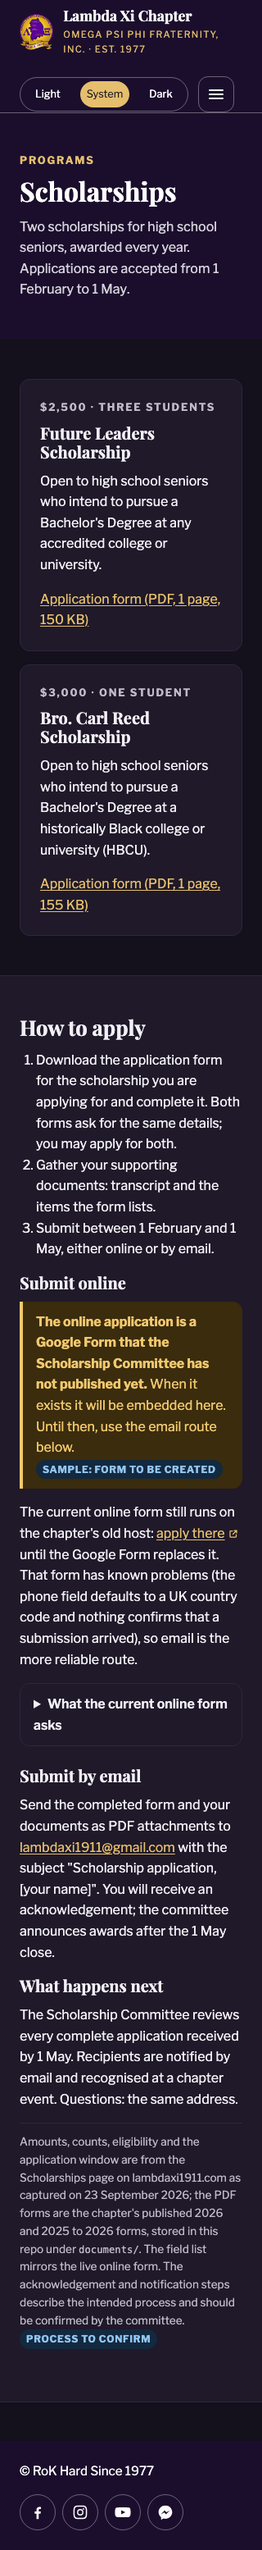
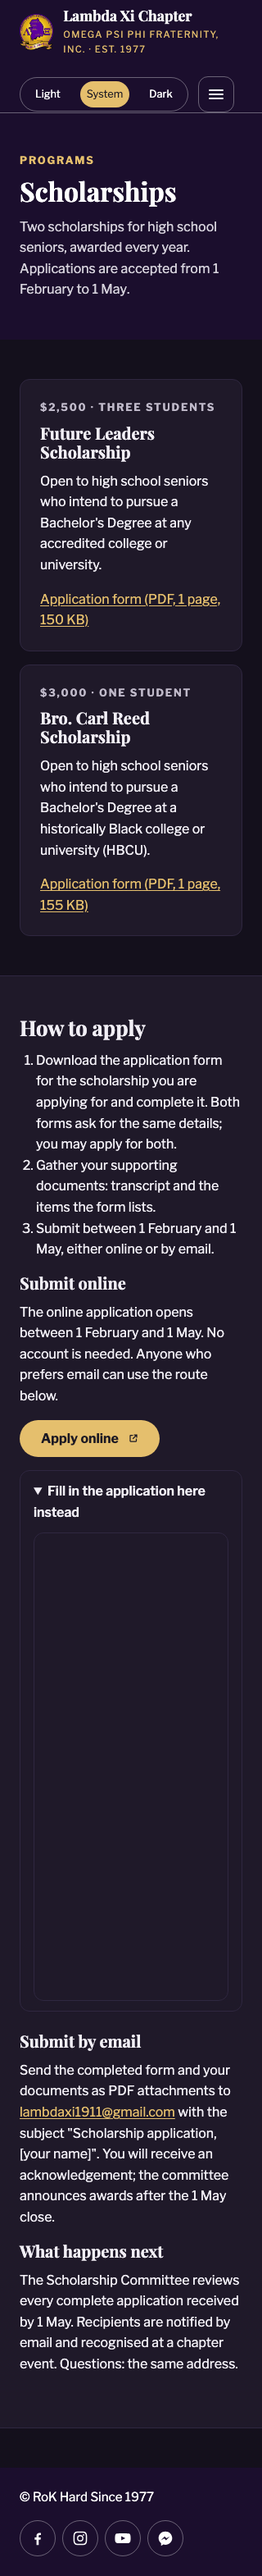
content: scholarship application moves to Tally, embedded and linked
Applicants no longer need a Google account to upload their documents.
The security policy allows tally.so frames; the Google Form stays
unlinked as a fallback.

diff --git a/docs/scholarships/index.html b/docs/scholarships/index.html
@@ -3,7 +3,7 @@
 <head>
 <meta charset="utf-8">
 <meta name="viewport" content="width=device-width, initial-scale=1">
-<meta http-equiv="Content-Security-Policy" content="default-src 'self'; script-src 'self' 'sha256-1C7GT+78bzy3hm2KN++HDdZPqmAjz3lqYHHkDRIS7Pw='; style-src 'self' https://fonts.googleapis.com; font-src https://fonts.gstatic.com; img-src 'self' data: https://custom-images.strikinglycdn.com; frame-src https://docs.google.com; connect-src 'self'; object-src 'none'; base-uri 'self'; form-action 'none'">
+<meta http-equiv="Content-Security-Policy" content="default-src 'self'; script-src 'self' 'sha256-1C7GT+78bzy3hm2KN++HDdZPqmAjz3lqYHHkDRIS7Pw='; style-src 'self' https://fonts.googleapis.com; font-src https://fonts.gstatic.com; img-src 'self' data: https://custom-images.strikinglycdn.com; frame-src https://docs.google.com https://tally.so; connect-src 'self'; object-src 'none'; base-uri 'self'; form-action 'none'">
 <script>
 /* Pre-paint theme: apply the stored choice before the first frame to avoid a flash. */
 (function () {
@@ -131,19 +131,13 @@
         <li>Submit between 1 February and 1 May, either online or by email.</li>
       </ol>
       <h3>Submit online</h3>
-      <p><a class="btn btn--primary" href="https://docs.google.com/forms/d/e/1FAIpQLSdDJCO-0odCvrCPdgxz5t_IAwGVnog2LI-kWmTqhfbIh9hRZw/viewform">Apply online (Google Form)</a></p>
-      <p>The online application opens between 1 February and 1 May. It needs a Google account, because it ends with a file upload; anyone without one can use the email route below instead.</p>
-      <details>
-        <summary>What the online form asks</summary>
-        <ul>
-          <li>Which scholarship (Future Leaders, Bro. Carl Reed, or both)</li>
-          <li>Student's first and last name, email, and optional phone (Korea +82 or US +1)</li>
-          <li>High school (Daegu, Osan, Humphreys, or other)</li>
-          <li>College or university you plan to attend</li>
-          <li>A short description of your community involvement and goals</li>
-          <li>Parent or guardian name, phone (Korea +82 or US +1) and email</li>
-          <li>Upload of the completed application form and transcript (PDF, up to 10 MB)</li>
-        </ul>
+      <p>The online application opens between 1 February and 1 May. No account is needed. Anyone who prefers email can use the route below.</p>
+      <p><a class="btn btn--primary" href="https://tally.so/r/VLg1eJ">Apply online</a></p>
+      <details open>
+        <summary>Fill in the application here instead</summary>
+        <div class="embed stack-top-sm">
+          <iframe referrerpolicy="strict-origin" src="https://tally.so/embed/VLg1eJ?alignLeft=1&hideTitle=1&transparentBackground=1" title="Lambda Xi Chapter scholarship application form" loading="lazy"></iframe>
+        </div>
       </details>
       <h3 class="stack-top">Submit by email</h3>
       <p>Send the completed form and your documents as PDF attachments to <a href="mailto:lambdaxi1911@gmail.com">lambdaxi1911@gmail.com</a> with the subject "Scholarship application, [your name]". You will receive an acknowledgement; the committee announces awards after the 1 May close.</p>

diff --git a/merged/scholarships.html b/merged/scholarships.html
@@ -130,19 +130,13 @@
         <li>Submit between 1 February and 1 May, either online or by email.</li>
       </ol>
       <h3>Submit online</h3>
-      <p><a class="btn btn--primary" href="https://docs.google.com/forms/d/e/1FAIpQLSdDJCO-0odCvrCPdgxz5t_IAwGVnog2LI-kWmTqhfbIh9hRZw/viewform">Apply online (Google Form)</a></p>
-      <p>The online application opens between 1 February and 1 May. It needs a Google account, because it ends with a file upload; anyone without one can use the email route below instead.</p>
-      <details>
-        <summary>What the online form asks</summary>
-        <ul>
-          <li>Which scholarship (Future Leaders, Bro. Carl Reed, or both)</li>
-          <li>Student's first and last name, email, and optional phone (Korea +82 or US +1)</li>
-          <li>High school (Daegu, Osan, Humphreys, or other)</li>
-          <li>College or university you plan to attend</li>
-          <li>A short description of your community involvement and goals</li>
-          <li>Parent or guardian name, phone (Korea +82 or US +1) and email</li>
-          <li>Upload of the completed application form and transcript (PDF, up to 10 MB)</li>
-        </ul>
+      <p>The online application opens between 1 February and 1 May. No account is needed. Anyone who prefers email can use the route below.</p>
+      <p><a class="btn btn--primary" href="https://tally.so/r/VLg1eJ">Apply online</a></p>
+      <details open>
+        <summary>Fill in the application here instead</summary>
+        <div class="embed stack-top-sm">
+          <iframe referrerpolicy="strict-origin" src="https://tally.so/embed/VLg1eJ?alignLeft=1&hideTitle=1&transparentBackground=1" title="Lambda Xi Chapter scholarship application form" loading="lazy"></iframe>
+        </div>
       </details>
       <h3 class="stack-top">Submit by email</h3>
       <p>Send the completed form and your documents as PDF attachments to <a href="mailto:lambdaxi1911@gmail.com">lambdaxi1911@gmail.com</a> with the subject "Scholarship application, [your name]". You will receive an acknowledgement; the committee announces awards after the 1 May close.</p>

diff --git a/scholarships/mock/scholarships-mock.html b/scholarships/mock/scholarships-mock.html
@@ -130,19 +130,13 @@
         <li>Submit between 1 February and 1 May, either online or by email.</li>
       </ol>
       <h3>Submit online</h3>
-      <p><a class="btn btn--primary" href="https://docs.google.com/forms/d/e/1FAIpQLSdDJCO-0odCvrCPdgxz5t_IAwGVnog2LI-kWmTqhfbIh9hRZw/viewform">Apply online (Google Form)</a></p>
-      <p>The online application opens between 1 February and 1 May. It needs a Google account, because it ends with a file upload; anyone without one can use the email route below instead.</p>
-      <details>
-        <summary>What the online form asks</summary>
-        <ul>
-          <li>Which scholarship (Future Leaders, Bro. Carl Reed, or both)</li>
-          <li>Student's first and last name, email, and optional phone (Korea +82 or US +1)</li>
-          <li>High school (Daegu, Osan, Humphreys, or other)</li>
-          <li>College or university you plan to attend</li>
-          <li>A short description of your community involvement and goals</li>
-          <li>Parent or guardian name, phone (Korea +82 or US +1) and email</li>
-          <li>Upload of the completed application form and transcript (PDF, up to 10 MB)</li>
-        </ul>
+      <p>The online application opens between 1 February and 1 May. No account is needed. Anyone who prefers email can use the route below.</p>
+      <p><a class="btn btn--primary" href="https://tally.so/r/VLg1eJ">Apply online</a></p>
+      <details open>
+        <summary>Fill in the application here instead</summary>
+        <div class="embed stack-top-sm">
+          <iframe referrerpolicy="strict-origin" src="https://tally.so/embed/VLg1eJ?alignLeft=1&hideTitle=1&transparentBackground=1" title="Lambda Xi Chapter scholarship application form" loading="lazy"></iframe>
+        </div>
       </details>
       <h3 class="stack-top">Submit by email</h3>
       <p>Send the completed form and your documents as PDF attachments to <a href="mailto:lambdaxi1911@gmail.com">lambdaxi1911@gmail.com</a> with the subject "Scholarship application, [your name]". You will receive an acknowledgement; the committee announces awards after the 1 May close.</p>

diff --git a/tooling/mock-src/pages/scholarships.html b/tooling/mock-src/pages/scholarships.html
@@ -45,19 +45,13 @@
         <li>Submit between 1 February and 1 May, either online or by email.</li>
       </ol>
       <h3>Submit online</h3>
-      <p><a class="btn btn--primary" href="https://docs.google.com/forms/d/e/1FAIpQLSdDJCO-0odCvrCPdgxz5t_IAwGVnog2LI-kWmTqhfbIh9hRZw/viewform">Apply online (Google Form)</a></p>
-      <p>The online application opens between 1 February and 1 May. It needs a Google account, because it ends with a file upload; anyone without one can use the email route below instead.</p>
-      <details>
-        <summary>What the online form asks</summary>
-        <ul>
-          <li>Which scholarship (Future Leaders, Bro. Carl Reed, or both)</li>
-          <li>Student's first and last name, email, and optional phone (Korea +82 or US +1)</li>
-          <li>High school (Daegu, Osan, Humphreys, or other)</li>
-          <li>College or university you plan to attend</li>
-          <li>A short description of your community involvement and goals</li>
-          <li>Parent or guardian name, phone (Korea +82 or US +1) and email</li>
-          <li>Upload of the completed application form and transcript (PDF, up to 10 MB)</li>
-        </ul>
+      <p>The online application opens between 1 February and 1 May. No account is needed. Anyone who prefers email can use the route below.</p>
+      <p><a class="btn btn--primary" href="https://tally.so/r/VLg1eJ">Apply online</a></p>
+      <details open>
+        <summary>Fill in the application here instead</summary>
+        <div class="embed stack-top-sm">
+          <iframe referrerpolicy="strict-origin" src="https://tally.so/embed/VLg1eJ?alignLeft=1&hideTitle=1&transparentBackground=1" title="Lambda Xi Chapter scholarship application form" loading="lazy"></iframe>
+        </div>
       </details>
       <h3 class="stack-top">Submit by email</h3>
       <p>Send the completed form and your documents as PDF attachments to <a href="mailto:lambdaxi1911@gmail.com">lambdaxi1911@gmail.com</a> with the subject "Scholarship application, [your name]". You will receive an acknowledgement; the committee announces awards after the 1 May close.</p>

diff --git a/merged/index.html b/merged/index.html
@@ -18,5 +18,5 @@
 <tr><td><a href="news.html">News</a></td><td>approved 24 Sep 2026</td><td><code>news/mock/news-mock.html</code></td></tr>
 <tr><td><a href="new-years-eve-party.html">New Year's Eve Party</a></td><td>built, awaiting review</td><td><code>new-years-eve-party/mock/new-years-eve-party-mock.html</code></td></tr>
 <tr><td><a href="mandated-programs.html">Mandated Programs</a></td><td>approved 24 Sep 2026</td><td><code>mandated-programs/mock/mandated-programs-mock.html</code></td></tr>
-<tr><td><a href="scholarships.html">Scholarships</a></td><td>approved 24 Sep 2026; Google Form linked</td><td><code>scholarships/mock/scholarships-mock.html</code></td></tr>
+<tr><td><a href="scholarships.html">Scholarships</a></td><td>approved 24 Sep 2026; Tally application form linked</td><td><code>scholarships/mock/scholarships-mock.html</code></td></tr>
 <tr><td><a href="youth-leadership-conference.html">Youth Leadership Conference</a></td><td>approved 23 Sep 2026</td><td><code>youth-leadership-conference/mock/youth-leadership-conference-mock.html</code></td></tr></tbody></table></main></body></html>

diff --git a/docs/contact/index.html b/docs/contact/index.html
@@ -3,7 +3,7 @@
 <head>
 <meta charset="utf-8">
 <meta name="viewport" content="width=device-width, initial-scale=1">
-<meta http-equiv="Content-Security-Policy" content="default-src 'self'; script-src 'self' 'sha256-1C7GT+78bzy3hm2KN++HDdZPqmAjz3lqYHHkDRIS7Pw='; style-src 'self' https://fonts.googleapis.com; font-src https://fonts.gstatic.com; img-src 'self' data: https://custom-images.strikinglycdn.com; frame-src https://docs.google.com; connect-src 'self'; object-src 'none'; base-uri 'self'; form-action 'none'">
+<meta http-equiv="Content-Security-Policy" content="default-src 'self'; script-src 'self' 'sha256-1C7GT+78bzy3hm2KN++HDdZPqmAjz3lqYHHkDRIS7Pw='; style-src 'self' https://fonts.googleapis.com; font-src https://fonts.gstatic.com; img-src 'self' data: https://custom-images.strikinglycdn.com; frame-src https://docs.google.com https://tally.so; connect-src 'self'; object-src 'none'; base-uri 'self'; form-action 'none'">
 <script>
 /* Pre-paint theme: apply the stored choice before the first frame to avoid a flash. */
 (function () {

diff --git a/docs/events/50th-anniversary/index.html b/docs/events/50th-anniversary/index.html
@@ -3,7 +3,7 @@
 <head>
 <meta charset="utf-8">
 <meta name="viewport" content="width=device-width, initial-scale=1">
-<meta http-equiv="Content-Security-Policy" content="default-src 'self'; script-src 'self' 'sha256-1C7GT+78bzy3hm2KN++HDdZPqmAjz3lqYHHkDRIS7Pw='; style-src 'self' https://fonts.googleapis.com; font-src https://fonts.gstatic.com; img-src 'self' data: https://custom-images.strikinglycdn.com; frame-src https://docs.google.com; connect-src 'self'; object-src 'none'; base-uri 'self'; form-action 'none'">
+<meta http-equiv="Content-Security-Policy" content="default-src 'self'; script-src 'self' 'sha256-1C7GT+78bzy3hm2KN++HDdZPqmAjz3lqYHHkDRIS7Pw='; style-src 'self' https://fonts.googleapis.com; font-src https://fonts.gstatic.com; img-src 'self' data: https://custom-images.strikinglycdn.com; frame-src https://docs.google.com https://tally.so; connect-src 'self'; object-src 'none'; base-uri 'self'; form-action 'none'">
 <script>
 /* Pre-paint theme: apply the stored choice before the first frame to avoid a flash. */
 (function () {

diff --git a/docs/events/achievement-week/index.html b/docs/events/achievement-week/index.html
@@ -3,7 +3,7 @@
 <head>
 <meta charset="utf-8">
 <meta name="viewport" content="width=device-width, initial-scale=1">
-<meta http-equiv="Content-Security-Policy" content="default-src 'self'; script-src 'self' 'sha256-1C7GT+78bzy3hm2KN++HDdZPqmAjz3lqYHHkDRIS7Pw='; style-src 'self' https://fonts.googleapis.com; font-src https://fonts.gstatic.com; img-src 'self' data: https://custom-images.strikinglycdn.com; frame-src https://docs.google.com; connect-src 'self'; object-src 'none'; base-uri 'self'; form-action 'none'">
+<meta http-equiv="Content-Security-Policy" content="default-src 'self'; script-src 'self' 'sha256-1C7GT+78bzy3hm2KN++HDdZPqmAjz3lqYHHkDRIS7Pw='; style-src 'self' https://fonts.googleapis.com; font-src https://fonts.gstatic.com; img-src 'self' data: https://custom-images.strikinglycdn.com; frame-src https://docs.google.com https://tally.so; connect-src 'self'; object-src 'none'; base-uri 'self'; form-action 'none'">
 <script>
 /* Pre-paint theme: apply the stored choice before the first frame to avoid a flash. */
 (function () {

diff --git a/docs/events/all-star-game/index.html b/docs/events/all-star-game/index.html
@@ -3,7 +3,7 @@
 <head>
 <meta charset="utf-8">
 <meta name="viewport" content="width=device-width, initial-scale=1">
-<meta http-equiv="Content-Security-Policy" content="default-src 'self'; script-src 'self' 'sha256-1C7GT+78bzy3hm2KN++HDdZPqmAjz3lqYHHkDRIS7Pw='; style-src 'self' https://fonts.googleapis.com; font-src https://fonts.gstatic.com; img-src 'self' data: https://custom-images.strikinglycdn.com; frame-src https://docs.google.com; connect-src 'self'; object-src 'none'; base-uri 'self'; form-action 'none'">
+<meta http-equiv="Content-Security-Policy" content="default-src 'self'; script-src 'self' 'sha256-1C7GT+78bzy3hm2KN++HDdZPqmAjz3lqYHHkDRIS7Pw='; style-src 'self' https://fonts.googleapis.com; font-src https://fonts.gstatic.com; img-src 'self' data: https://custom-images.strikinglycdn.com; frame-src https://docs.google.com https://tally.so; connect-src 'self'; object-src 'none'; base-uri 'self'; form-action 'none'">
 <script>
 /* Pre-paint theme: apply the stored choice before the first frame to avoid a flash. */
 (function () {

diff --git a/docs/events/index.html b/docs/events/index.html
@@ -3,7 +3,7 @@
 <head>
 <meta charset="utf-8">
 <meta name="viewport" content="width=device-width, initial-scale=1">
-<meta http-equiv="Content-Security-Policy" content="default-src 'self'; script-src 'self' 'sha256-1C7GT+78bzy3hm2KN++HDdZPqmAjz3lqYHHkDRIS7Pw='; style-src 'self' https://fonts.googleapis.com; font-src https://fonts.gstatic.com; img-src 'self' data: https://custom-images.strikinglycdn.com; frame-src https://docs.google.com; connect-src 'self'; object-src 'none'; base-uri 'self'; form-action 'none'">
+<meta http-equiv="Content-Security-Policy" content="default-src 'self'; script-src 'self' 'sha256-1C7GT+78bzy3hm2KN++HDdZPqmAjz3lqYHHkDRIS7Pw='; style-src 'self' https://fonts.googleapis.com; font-src https://fonts.gstatic.com; img-src 'self' data: https://custom-images.strikinglycdn.com; frame-src https://docs.google.com https://tally.so; connect-src 'self'; object-src 'none'; base-uri 'self'; form-action 'none'">
 <script>
 /* Pre-paint theme: apply the stored choice before the first frame to avoid a flash. */
 (function () {

diff --git a/docs/events/new-years-eve/index.html b/docs/events/new-years-eve/index.html
@@ -3,7 +3,7 @@
 <head>
 <meta charset="utf-8">
 <meta name="viewport" content="width=device-width, initial-scale=1">
-<meta http-equiv="Content-Security-Policy" content="default-src 'self'; script-src 'self' 'sha256-1C7GT+78bzy3hm2KN++HDdZPqmAjz3lqYHHkDRIS7Pw='; style-src 'self' https://fonts.googleapis.com; font-src https://fonts.gstatic.com; img-src 'self' data: https://custom-images.strikinglycdn.com; frame-src https://docs.google.com; connect-src 'self'; object-src 'none'; base-uri 'self'; form-action 'none'">
+<meta http-equiv="Content-Security-Policy" content="default-src 'self'; script-src 'self' 'sha256-1C7GT+78bzy3hm2KN++HDdZPqmAjz3lqYHHkDRIS7Pw='; style-src 'self' https://fonts.googleapis.com; font-src https://fonts.gstatic.com; img-src 'self' data: https://custom-images.strikinglycdn.com; frame-src https://docs.google.com https://tally.so; connect-src 'self'; object-src 'none'; base-uri 'self'; form-action 'none'">
 <script>
 /* Pre-paint theme: apply the stored choice before the first frame to avoid a flash. */
 (function () {

diff --git a/docs/events/youth-leadership-conference/index.html b/docs/events/youth-leadership-conference/index.html
@@ -3,7 +3,7 @@
 <head>
 <meta charset="utf-8">
 <meta name="viewport" content="width=device-width, initial-scale=1">
-<meta http-equiv="Content-Security-Policy" content="default-src 'self'; script-src 'self' 'sha256-1C7GT+78bzy3hm2KN++HDdZPqmAjz3lqYHHkDRIS7Pw='; style-src 'self' https://fonts.googleapis.com; font-src https://fonts.gstatic.com; img-src 'self' data: https://custom-images.strikinglycdn.com; frame-src https://docs.google.com; connect-src 'self'; object-src 'none'; base-uri 'self'; form-action 'none'">
+<meta http-equiv="Content-Security-Policy" content="default-src 'self'; script-src 'self' 'sha256-1C7GT+78bzy3hm2KN++HDdZPqmAjz3lqYHHkDRIS7Pw='; style-src 'self' https://fonts.googleapis.com; font-src https://fonts.gstatic.com; img-src 'self' data: https://custom-images.strikinglycdn.com; frame-src https://docs.google.com https://tally.so; connect-src 'self'; object-src 'none'; base-uri 'self'; form-action 'none'">
 <script>
 /* Pre-paint theme: apply the stored choice before the first frame to avoid a flash. */
 (function () {
